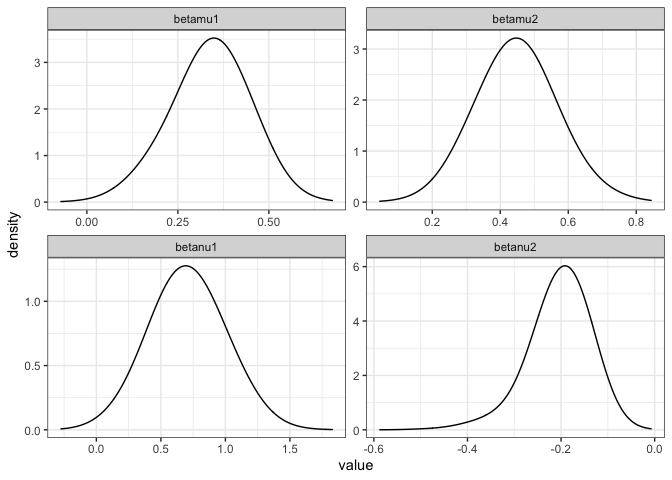
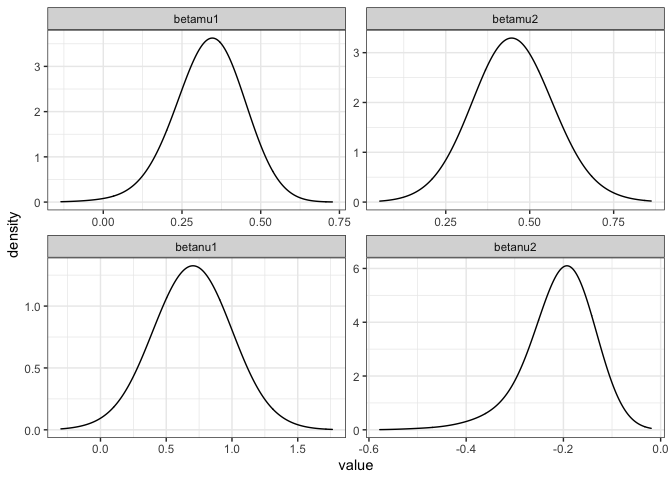
readme

diff --git a/README.md b/README.md
@@ -17,56 +17,182 @@ this GitHub repository.
 ``` r
 #devtools::install_github("luizapiancastelli/cpbayes")
 library(cpbayes)
-
+#> 
+#> Attaching package: 'cpbayes'
+#> The following object is masked from 'package:stats':
+#> 
+#>     BIC
 ls("package:cpbayes") #List of currently exported functions
-#> [1] "dcompois"     "fitcpbayes"   "inventory"    "pcompois"     "qcompois"    
-#> [6] "rcompois"     "takeoverbids" "Zhat"
+#> [1] "BIC"          "dcompois"     "fitcpbayes"   "inventory"    "pcompois"    
+#> [6] "qcompois"     "rcompois"     "takeoverbids" "Zhat"
 ```
 
-Usage of `rcompois` for set parameter values (the fast-rejection
-sampler):
+### COM-Poisson distribution
+
+`cpbayes` provides a family of functions designed to work with the
+COM-Poisson distribution, namely `rcompois`, `dcompois`, `pcompois` and
+`qcompois`. A call to `help` renders documentation where further details
+on their implementation can be found.
+
+`rcompois` is the key component among these, an implementation of the
+fast-rejection sampler of Benson and Friel (2021) that gives from a
+COM-Poisson with location
+![\mu](https://latex.codecogs.com/png.image?%5Cdpi%7B110%7D&space;%5Cbg_white&space;%5Cmu "\mu")
+and dispersion parameter
+![\nu](https://latex.codecogs.com/png.image?%5Cdpi%7B110%7D&space;%5Cbg_white&space;%5Cnu "\nu").
+Currently `dcompois`, `pcompois` and `qcompois` involve approximation of
+the normalisation constant via truncation, included so that `cpbayes`
+gives a complete framework to work with the COM-Poisson.
+
+The next code chunk exemplifies simulating over and underdispersed
+counts with `rcompois` and computation of some COM-Poisson
+probabilities.
 
 ``` r
-Y = rcompois(n =100, mu =1, nu = 0.5)
+Y1 = rcompois(n =200, mu =1, nu = 0.2) #nu < 1 renders overdispersed count data
+Y2 = rcompois(n =200, mu =1, nu = 1.5) #nu > 1 underdispersion
+c(mean(Y1), var(Y1))
+#> [1] 2.805000 6.127613
+c(mean(Y2), var(Y2))
+#> [1] 0.7450000 0.5929397
+#approximate mean and variance are E(Y) ~ mu + 1/2nu -1/2 and Var(Y) ~ mu/nu
+
+#P(Y = 0)
+dcompois(0, mu =1, nu = 0.2)
+#> [1] 0.1903481
+dcompois(0, mu =1, nu = 1.5)
+#> [1] 0.4113677
+
+#P(Y <= 1) for Y1, Y2
+pcompois(1, mu = 1, nu= 0.2)
+#> [1] 0.3806962
+pcompois(1, mu = 1, nu=1.5)
+#> [1] 0.8227354
+
+#Median of distribution 
+qcompois(0.5, 1, 0.2)
+#> [1] 2
+qcompois(0.5, 1, 1.5)
+#> [1] 1
 ```
 
 ### COM-Poisson regression
 
-Function `fitcpbayes` fits a COM-Poisson GLM and a quick check of its
-arguments is rendered by `help("fitcpbayes")` (documentation under
-development!). The code below provides and example of its usage with the
-`takeoverbids` data set (model 4 in (Benson and Friel (2021)) ) and some
-methods currently available.
+In addition to the COM-Poisson distribution functions, `cpbayes` fits
+generalised linear models to COM-Poisson distributed counts in the
+Bayesian framework. Regression structure via the logarithm link is
+supported in the location and dispersion parameters. This model assumes
+counts
+![y_1, \cdots, y_n](https://latex.codecogs.com/png.image?%5Cdpi%7B110%7D&space;%5Cbg_white&space;y_1%2C%20%5Ccdots%2C%20y_n "y_1, \cdots, y_n")
+to be COM-Poisson distributed with likelihood
+
+![f(y_i\|\mu_i, \nu_i) =  \left( \dfrac{\mu_i^{y_i}}{y_i!} \right)^{\nu_i} \frac{1}{Z(\mu_i, \nu_i)}](https://latex.codecogs.com/png.image?%5Cdpi%7B110%7D&space;%5Cbg_white&space;f%28y_i%7C%5Cmu_i%2C%20%5Cnu_i%29%20%3D%20%20%5Cleft%28%20%5Cdfrac%7B%5Cmu_i%5E%7By_i%7D%7D%7By_i%21%7D%20%5Cright%29%5E%7B%5Cnu_i%7D%20%5Cfrac%7B1%7D%7BZ%28%5Cmu_i%2C%20%5Cnu_i%29%7D "f(y_i|\mu_i, \nu_i) =  \left( \dfrac{\mu_i^{y_i}}{y_i!} \right)^{\nu_i} \frac{1}{Z(\mu_i, \nu_i)}")
+
+where
+![Z(\mu_i, \nu_i) = \sum\_{y=0}^\infty q(y_i\|\mu_i, \nu_i)](https://latex.codecogs.com/png.image?%5Cdpi%7B110%7D&space;%5Cbg_white&space;Z%28%5Cmu_i%2C%20%5Cnu_i%29%20%3D%20%5Csum_%7By%3D0%7D%5E%5Cinfty%20q%28y_i%7C%5Cmu_i%2C%20%5Cnu_i%29 "Z(\mu_i, \nu_i) = \sum_{y=0}^\infty q(y_i|\mu_i, \nu_i)"),
+![q(y_i\|\mu_i, \nu_i) = \left( \frac{\mu_i^{y_i}}{y_i!} \right)^{\nu_i}](https://latex.codecogs.com/png.image?%5Cdpi%7B110%7D&space;%5Cbg_white&space;q%28y_i%7C%5Cmu_i%2C%20%5Cnu_i%29%20%3D%20%5Cleft%28%20%5Cfrac%7B%5Cmu_i%5E%7By_i%7D%7D%7By_i%21%7D%20%5Cright%29%5E%7B%5Cnu_i%7D "q(y_i|\mu_i, \nu_i) = \left( \frac{\mu_i^{y_i}}{y_i!} \right)^{\nu_i}")
+and the regression
+![\mu_i = \exp \left( \beta\_{\mu,0} + \sum\_{j=1}^b \beta\_{\mu, j} x^\mu\_{ij} \right)](https://latex.codecogs.com/png.image?%5Cdpi%7B110%7D&space;%5Cbg_white&space;%5Cmu_i%20%3D%20%5Cexp%20%5Cleft%28%20%5Cbeta_%7B%5Cmu%2C0%7D%20%2B%20%5Csum_%7Bj%3D1%7D%5Eb%20%5Cbeta_%7B%5Cmu%2C%20j%7D%20x%5E%5Cmu_%7Bij%7D%20%5Cright%29 "\mu_i = \exp \left( \beta_{\mu,0} + \sum_{j=1}^b \beta_{\mu, j} x^\mu_{ij} \right)")
+and
+![\nu_i = \exp \left( \beta\_{\nu,0} + \sum\_{k=1}^c \beta\_{\nu, k} x^\nu\_{ik} \right)](https://latex.codecogs.com/png.image?%5Cdpi%7B110%7D&space;%5Cbg_white&space;%5Cnu_i%20%3D%20%5Cexp%20%5Cleft%28%20%5Cbeta_%7B%5Cnu%2C0%7D%20%2B%20%5Csum_%7Bk%3D1%7D%5Ec%20%5Cbeta_%7B%5Cnu%2C%20k%7D%20x%5E%5Cnu_%7Bik%7D%20%5Cright%29 "\nu_i = \exp \left( \beta_{\nu,0} + \sum_{k=1}^c \beta_{\nu, k} x^\nu_{ik} \right)").
+![\boldsymbol{x}^\mu_1, \cdots, \boldsymbol{x}^\mu_b](https://latex.codecogs.com/png.image?%5Cdpi%7B110%7D&space;%5Cbg_white&space;%5Cboldsymbol%7Bx%7D%5E%5Cmu_1%2C%20%5Ccdots%2C%20%5Cboldsymbol%7Bx%7D%5E%5Cmu_b "\boldsymbol{x}^\mu_1, \cdots, \boldsymbol{x}^\mu_b")
+and
+![\boldsymbol{x}^\nu_1, \cdots, \boldsymbol{x}^\nu_c](https://latex.codecogs.com/png.image?%5Cdpi%7B110%7D&space;%5Cbg_white&space;%5Cboldsymbol%7Bx%7D%5E%5Cnu_1%2C%20%5Ccdots%2C%20%5Cboldsymbol%7Bx%7D%5E%5Cnu_c "\boldsymbol{x}^\nu_1, \cdots, \boldsymbol{x}^\nu_c")
+are observed covariates accounted in
+![\mu](https://latex.codecogs.com/png.image?%5Cdpi%7B110%7D&space;%5Cbg_white&space;%5Cmu "\mu")
+and
+![\nu](https://latex.codecogs.com/png.image?%5Cdpi%7B110%7D&space;%5Cbg_white&space;%5Cnu "\nu")
+for explaining
+![\boldsymbol{y}](https://latex.codecogs.com/png.image?%5Cdpi%7B110%7D&space;%5Cbg_white&space;%5Cboldsymbol%7By%7D "\boldsymbol{y}").
+
+The function `fitcpbayes` runs Markov Chain Monte Carlo for
+![\boldsymbol{\beta\_\mu}, \boldsymbol{\beta\_\nu}](https://latex.codecogs.com/png.image?%5Cdpi%7B110%7D&space;%5Cbg_white&space;%5Cboldsymbol%7B%5Cbeta_%5Cmu%7D%2C%20%5Cboldsymbol%7B%5Cbeta_%5Cnu%7D "\boldsymbol{\beta_\mu}, \boldsymbol{\beta_\nu}")
+Bayesian inference using the exchange algorithm (Murray (2006)). Further
+details on the exchange framework for intractable likelihoods and
+arguments to `fitcpbayes` are rendered by `help("fitcpbayes")`.
+
+Code below provides and example of its usage with the `takeoverbids`
+data, a data set on the number of bids `numbids` received by U.S. firms
+in the period 1978-1985 that were taken over within 1 year of the
+initial offer. This is modeled alongside the potential covariates
+`whtknght` and `size` described in `help(takeoverbids)`.
+
+`fitcpbayes`’s basic arguments include `R` formulas for
+![\mu](https://latex.codecogs.com/png.image?%5Cdpi%7B110%7D&space;%5Cbg_white&space;%5Cmu "\mu")
+and
+![\nu](https://latex.codecogs.com/png.image?%5Cdpi%7B110%7D&space;%5Cbg_white&space;%5Cnu "\nu"),
+the data set (a `data.frame`), number of iterations to discard as
+`burnin` and to store (`niter`). `nchains` specifies how many MCMC
+chains to run and parallel computation can be enabled by setting
+`ncores`. `fitcpbayes` outputs an object of class `cpbayes` for which
+generic `summary` and `plot` methods are available.
 
 ``` r
-#help("fitcpbayes")
 data("takeoverbids")
-
 mcmc = fitcpbayes(numbids ~ whtknght, numbids ~ size, takeoverbids, 10000, 10000, nchains =3)
 
-summary(mcmc) #Gives the number of efficient draws neff and scale reduction factors Rhat
+summary(mcmc) #neff is the number of efficient draws, and Rhat the potential scale reduction factor, estimated if nchains>1
 #> # A tibble: 4 × 8
 #>   param     mean     sd     Q5    Q50    Q95  rhat  neff
 #>   <chr>    <dbl>  <dbl>  <dbl>  <dbl>  <dbl> <dbl> <dbl>
-#> 1 betamu1  0.339 0.101   0.159  0.343  0.496  1.01  461.
-#> 2 betamu2  0.448 0.110   0.271  0.448  0.631  1.00  589.
-#> 3 betanu1  0.705 0.270   0.264  0.699  1.16   1.00  731.
-#> 4 betanu2 -0.204 0.0640 -0.321 -0.197 -0.116  1.01 1069.
+#> 1 betamu1  0.336 0.0990  0.169  0.341  0.489  1.00  520.
+#> 2 betamu2  0.450 0.108   0.275  0.448  0.628  1.00  597.
+#> 3 betanu1  0.699 0.263   0.266  0.699  1.13   1.00  897.
+#> 4 betanu2 -0.208 0.0654 -0.330 -0.200 -0.118  1.00 1084.
 ```
 
 ``` r
-plot(mcmc)
+plot(mcmc) #density plots using combined posterior draws
 ```
 
 <img src="man/figures/README-unnamed-chunk-4-1.png" width="100%" />
 
 ``` r
-plot(mcmc, type = 'trace')
+plot(mcmc, type = 'trace') #trace plots colored by chain run
 ```
 
 <img src="man/figures/README-unnamed-chunk-4-2.png" width="100%" />
 
+`cpbayes` also provides BIC estimation for comparing between models
+fits. This is automatic from a `cpbayes` object, where likelihood
+estimation occurs is linked to the acceptance rate of COM-Poisson
+rejection sampling. For more details, please see the indicated reference
+or `help("BIC")`. Let’s consider another regression structure for the
+`takeoverbids` problem and use this tool for model selection.
+
 ``` r
+mcmc2 = fitcpbayes(numbids ~ whtknght + bidprem, numbids ~ size, takeoverbids, 10000, 10000, nchains =3)
+
 BIC(mcmc)
-#> [1] 374.019
+#> [1] 374.1528
+BIC(mcmc2)
+#> [1] 380.2662
 ```
+
+It looks like the data further supports `numbids ~ whtknght`
+![\mu](https://latex.codecogs.com/png.image?%5Cdpi%7B110%7D&space;%5Cbg_white&space;%5Cmu "\mu")
+regression in comparison to `numbids ~ whtknght + bidprem`.
+
+#### No regression
+
+A special case of `fitcpbayes` is implemented for when we are interested
+in Bayesian inference for the
+![\mu, \nu](https://latex.codecogs.com/png.image?%5Cdpi%7B110%7D&space;%5Cbg_white&space;%5Cmu%2C%20%5Cnu "\mu, \nu")
+parameters with no regression structure. As an example, let’s revisit
+`Y2` and see how the model fit supports the true values used to generate
+the data, these were
+![\mu =1, \nu = 1.5](https://latex.codecogs.com/png.image?%5Cdpi%7B110%7D&space;%5Cbg_white&space;%5Cmu%20%3D1%2C%20%5Cnu%20%3D%201.5 "\mu =1, \nu = 1.5").
+
+``` r
+y2 = data.frame('y' = Y2)
+mcmc3 = fitcpbayes(y ~ 1, y ~ 1, y2, 10000, 10000, nchains =1)
+
+summary(mcmc3)
+#> # A tibble: 2 × 7
+#>   param  mean    sd    Q5   Q50   Q95  neff
+#>   <chr> <dbl> <dbl> <dbl> <dbl> <dbl> <dbl>
+#> 1 mu    0.859 0.117 0.649 0.869  1.03  138.
+#> 2 nu    1.32  0.280 0.881 1.30   1.80  185.
+```
+
+Looks like the true values have high posterior probability as expected!
